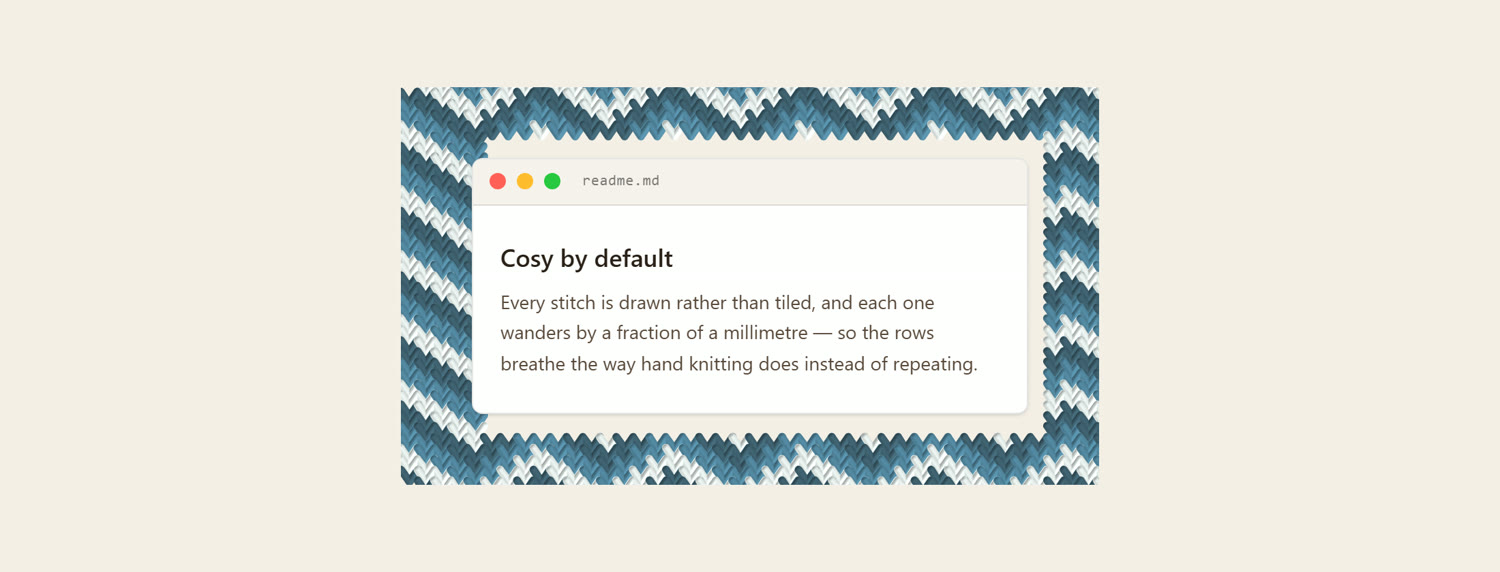
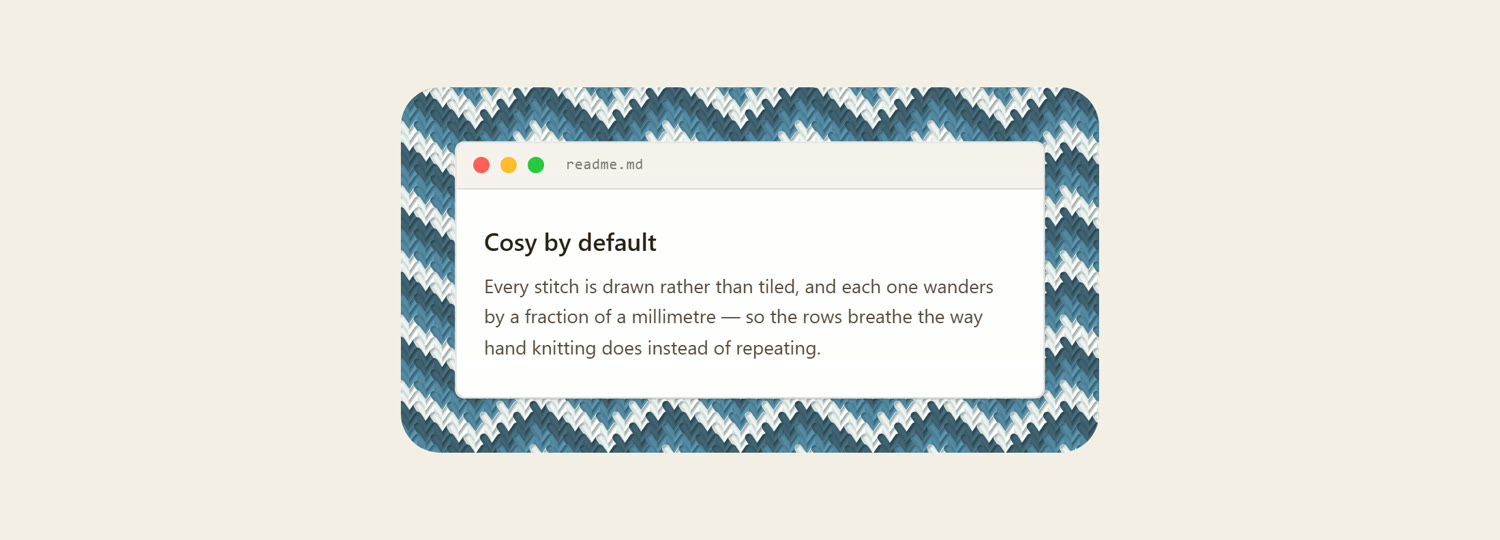
Make it a frame the content wears, not a swatch behind it
It still read as pasted, and it was: the ring was the outer N cells of a
grid the size of the whole box, so its boundary was the canvas rectangle
and every stitch sitting on it was sliced mid-loop. `radius` only ever
nibbled a couple of cells out of the corners, which is why the rounding
never showed.

The stitches are now laid across the whole box and clipped to an
even-odd rounded ring. The edge is trimmed, the corners mitre, and the
outer boundary is a curve rather than a guillotine.

And the inset was wrong: padding was the band times 1.15, so there was
always a ring of bare backdrop between the knitting and the content —
the cream gap that made it three stacked layers instead of one object.
Padding is now the band exactly, computed the same way the renderer
computes it, and the demo drops its background panel so the sweater
touches the window.

Changed region(s): [[0.2453, 0.1481, 0.736, 0.8593]]

diff --git a/components/knitted-frame/knitted-frame.tsx b/components/knitted-frame/knitted-frame.tsx
@@ -357,6 +357,10 @@ export default function KnittedFrame({
       const rows = Math.ceil(h / rowStep) + 1
       const band = Math.max(1, Math.round(L.stitches))
       const jit = sh * GAUGE.jitter
+      // The band's real thickness in pixels, which is what the content is
+      // inset by. Anything larger leaves a gap and the sweater stops touching
+      // the window it is supposed to be on.
+      const bandPx = band * rowStep
 
       pc.clearRect(0, 0, w, h)
       rc.clearRect(0, 0, w, h)
@@ -364,6 +368,26 @@ export default function KnittedFrame({
       pc.lineJoin = "round"
       rc.lineCap = "round"
       rc.lineJoin = "round"
+
+      // The frame is a rounded ring, not the outer cells of a rectangular
+      // grid. Clipping to it is what gives a trimmed edge and mitred corners;
+      // without it the boundary is the canvas rectangle and every stitch on it
+      // is sliced mid-loop, which reads as a pasted swatch.
+      const outerR = Math.min(L.radius * sh * 1.6, Math.min(w, h) / 2)
+      const innerR = Math.max(outerR - bandPx * 0.55, sh * 0.6)
+      const ring = new Path2D()
+      const box = (px: number, py: number, bw: number, bh: number, r: number) => {
+        const rr = Math.max(0, Math.min(r, bw / 2, bh / 2))
+        if (typeof ring.roundRect === "function") ring.roundRect(px, py, bw, bh, rr)
+        else ring.rect(px, py, bw, bh)
+      }
+      box(0, 0, w, h, outerR)
+      box(bandPx, bandPx, w - bandPx * 2, h - bandPx * 2, innerR)
+      pc.save()
+      rc.save()
+      // even-odd, so the inner box punches the middle out of the outer one.
+      pc.clip(ring, "evenodd")
+      rc.clip(ring, "evenodd")
 
       // Knitting happens from the bottom up, so that is how it arrives.
       const firstRow = progress >= 1 ? 0 : rows - Math.ceil(rows * progress)
@@ -376,7 +400,9 @@ export default function KnittedFrame({
         let from = -1
         let cur = ""
         for (let col = 0; col <= cols; col++) {
-          const on = col < cols && inBorder(col, row, cols, rows, band, L.radius)
+          // One stitch deeper than the band, and with no corner rounding: the
+          // clip shapes the frame now, so the grid only has to cover it.
+          const on = col < cols && inBorder(col, row, cols, rows, band + 1, 0)
           const color = on
             ? yarnFor(L.colors, stitchColorIndex(col, row, L.activePattern, L.colors.length))
             : ""
@@ -403,6 +429,9 @@ export default function KnittedFrame({
           }
         }
       }
+
+      pc.restore()
+      rc.restore()
 
       // ---- light it by the normals of the height field --------------------
       const col = pc.getImageData(0, 0, w, h)
@@ -465,9 +494,13 @@ export default function KnittedFrame({
     }
   }, [stitches, stitchSize, activePattern, colors, seed, radius, knitIn, reduced])
 
-  // A little more than the band, so the innermost row of stitches is not
-  // hidden behind the content's own edge.
-  const pad = Math.round(Math.max(1, stitches) * Math.max(stitchSize, 3) * 1.15)
+  // Exactly the band, computed the same way the renderer computes it. Padding
+  // larger than the band leaves a ring of bare backdrop between the knitting
+  // and the content, and the frame stops reading as something the content is
+  // wearing.
+  const pad = Math.round(
+    Math.max(1, stitches) * Math.max(stitchSize, 3) * (1 - GAUGE.rowOverlap),
+  )
 
   const selectClass =
     "rounded-md border border-black/15 bg-white px-2 py-1 text-[12px] capitalize text-[#3b2f26] " +

diff --git a/components/knitted-frame/demo.tsx b/components/knitted-frame/demo.tsx
@@ -8,7 +8,6 @@ export default function Demo() {
       <KnittedFrame
         pattern="chevron"
         tint="#4e8098"
-        background="#fffaf2"
         className="w-full max-w-lg"
       >
         {/* A window, wearing a sweater. */}

diff --git a/components/knitted-frame/README.md b/components/knitted-frame/README.md
@@ -26,6 +26,16 @@ copy behind it is a sticker of one, and that is exactly what it looks like.
 0.035 — a *thirtieth* of a stitch, not a tenth. Overdo any of them and it stops
 reading as hand knitting and starts reading as broken.
 
+**The frame is a rounded ring, not the outer cells of a grid.** The stitches
+are laid across the whole box and then clipped to an even-odd rounded ring, so
+the edge is trimmed and the corners mitre. Take the clip away and the boundary
+is the canvas rectangle, every stitch on it is sliced mid-loop, and the whole
+thing reads as a swatch pasted behind the content.
+
+**The inset equals the band exactly.** Padding larger than the band leaves a
+ring of bare backdrop between the knitting and the content, and it stops
+looking like something the content is wearing.
+
 **Colour is a chart**, one function of (column, row), so stripes, ribbing,
 seed, chevron, fair isle and argyle are the same renderer with a different
 chart rather than six code paths.
